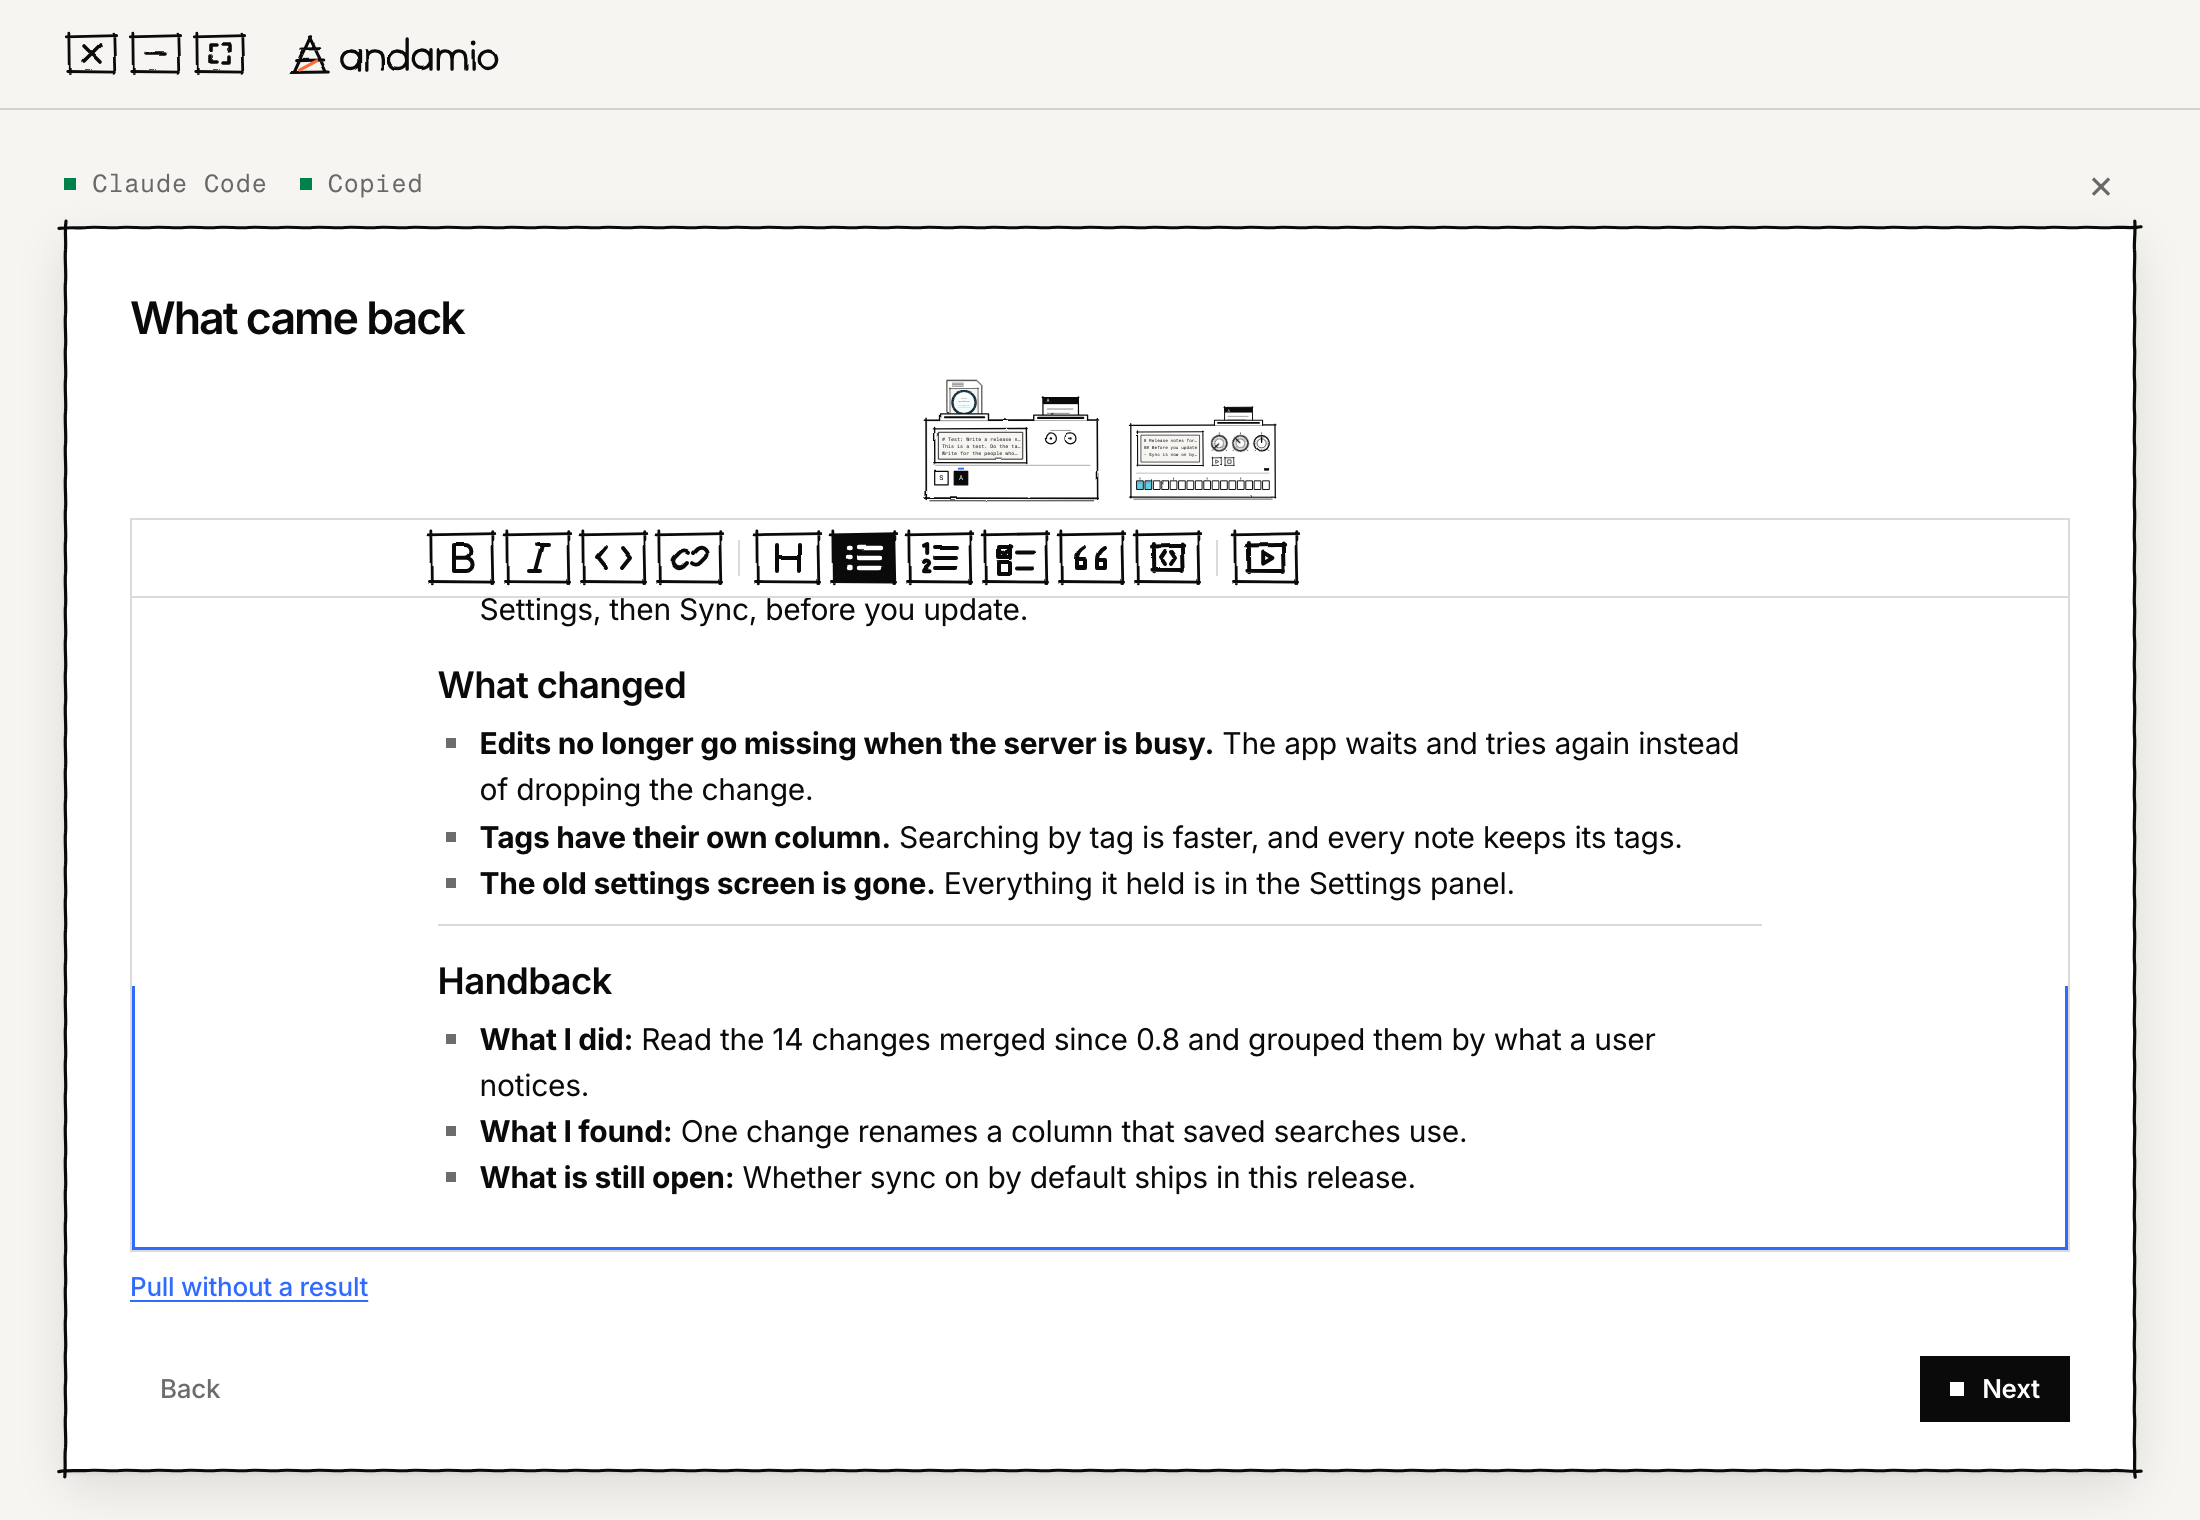
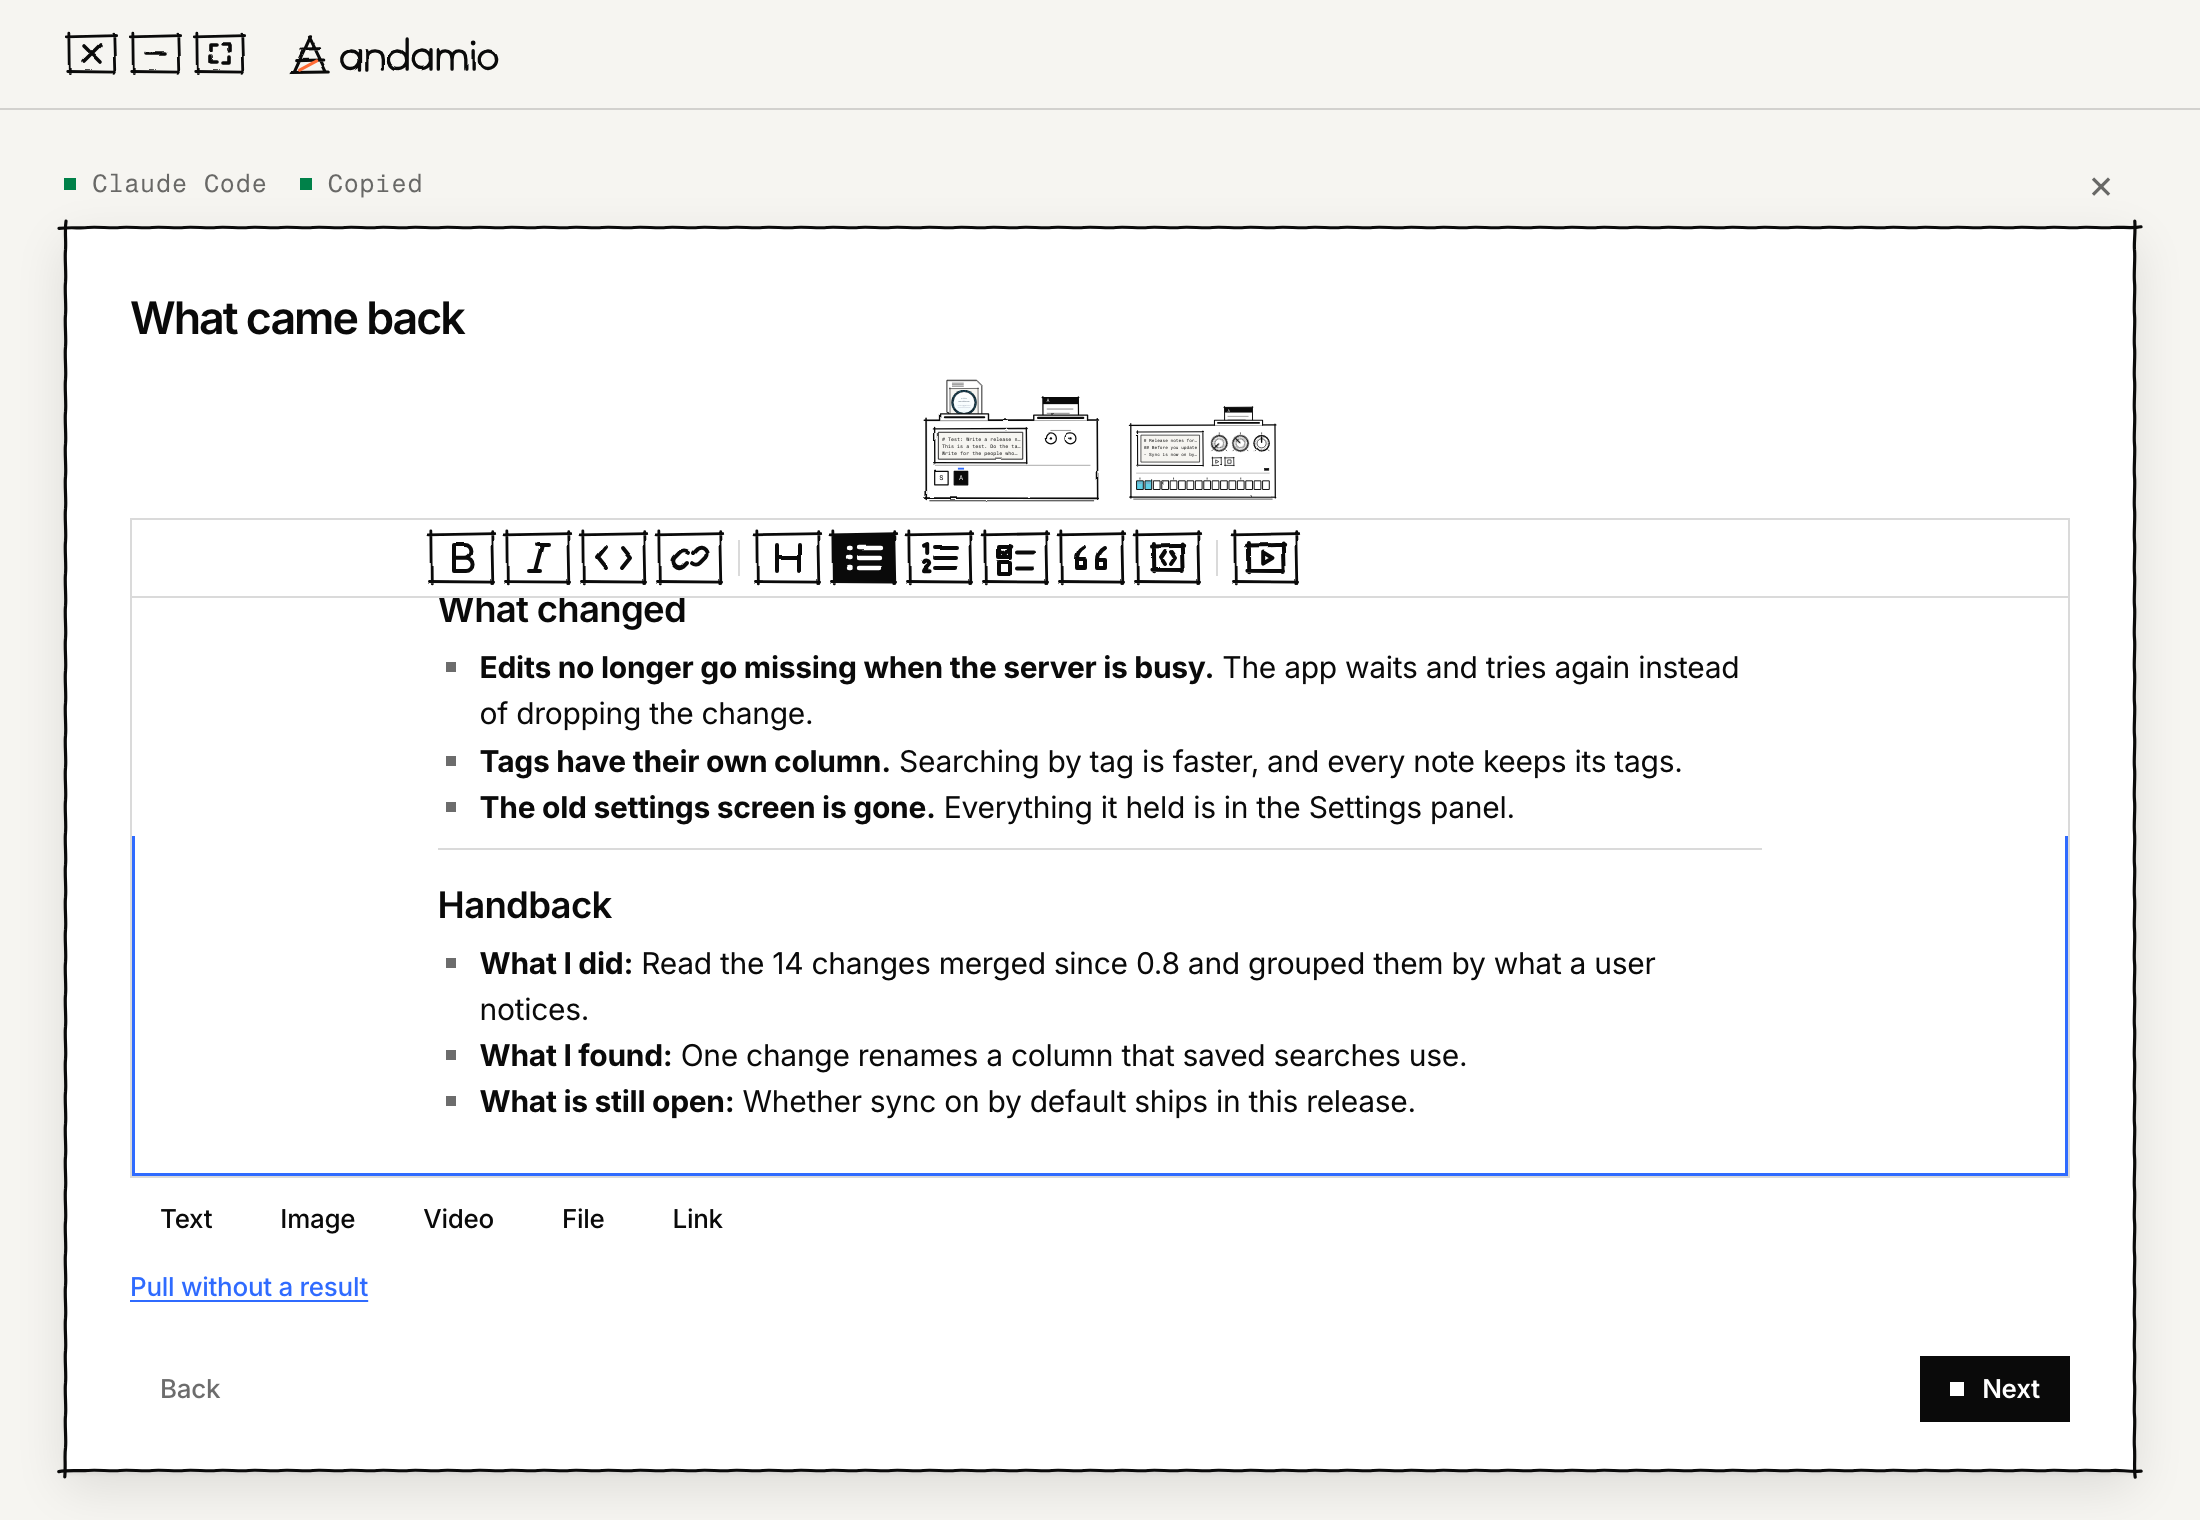
docs(guide): show adding files and links to a reply, and what Jev reads

Changed region(s): [[0.0618, 0.3711, 0.9273, 0.8349]]

diff --git a/src/shots/seed.ts b/src/shots/seed.ts
@@ -58,7 +58,7 @@ import {
 import { FAKE_ON, FakeJev } from "../jev/fakeJev";
 import { JEV_OFF } from "../jev/jev";
 import { MemoryStorage } from "../storage/memory";
-import type { AddFrom, AddedFile, VideoUrl } from "../storage/storage";
+import type { AddAccept, AddFrom, AddedFile, VideoUrl } from "../storage/storage";
 import type { PendingTest } from "../ui/pendingTests";
 import type { JevState, SeedVariant } from "./shots";
 
@@ -103,13 +103,33 @@ export interface SampleFolder {
   pending: PendingTest[];
 }
 
+/** The Markdown file the File key's picker adds beside the sample PDF: Write a release note's answer, as the agent left it. */
+export const SAMPLE_RELEASE_NOTES_MD = `# Release notes for 0.9
+
+## Before you update
+
+- Sync is now on by default. If you sync through your own server, add its address under Settings, then Sync, before you update.
+
+## What changed
+
+- Edits no longer go missing when the server is busy.
+- Tags can be renamed from the tag list.
+- The old settings screen is gone. Everything it held is under Settings.
+`;
+
+/** The names the File key's picker hands back, in order: the sample PDF, then the Markdown file. */
+export const SAMPLE_PICKED_FILES = { pdf: "release-notes-0.9.pdf", markdown: "RELEASE_NOTES.md" } as const;
+
 /**
  * MemoryStorage that answers context reads with the sample machine instead of the test one.
- * Given a sample clip's address, a pick adds that clip and every video plays it (the video
- * plan's KTD12), since the harness has no media scheme.
+ * Given a sample clip's address, the Video key's picker adds that clip and every video plays it
+ * (the video plan's KTD12), since the harness has no media scheme. Given the sample PDF's
+ * address, the File key's picker adds that PDF and the sample Markdown file, as a two-file pick
+ * would, and every PDF item reads from it (reply artifacts U7).
  */
 export class SampleStorage extends MemoryStorage {
   private clip: { url: string; bytes?: Promise<Uint8Array>; blobUrl?: Promise<string> } | null = null;
+  private pdf: { url: string; bytes?: Promise<Uint8Array> } | null = null;
 
   override async readContext(_repo: string, harness: string): Promise<ContextReading> {
     return { ...SAMPLE_READING, memory: MEMORY[harness] ?? SAMPLE_READING.memory };
@@ -120,12 +140,26 @@ export class SampleStorage extends MemoryStorage {
     this.clip = { url };
   }
 
-  override async addFiles(dir: string, from: AddFrom): Promise<AddedFile[]> {
-    if (from.kind === "pick" && this.clip) {
-      this.clip.bytes ??= fetch(this.clip.url).then(async (r) => new Uint8Array(await r.arrayBuffer()));
-      this.queueAdd([{ name: "clip.webm", bytes: await this.clip.bytes }]);
+  /** Uses the PDF at `url` for the File key's picker and for every PDF item. */
+  useSamplePdf(url: string): void {
+    this.pdf = { url };
+  }
+
+  override async addFiles(dir: string, from: AddFrom, accept?: AddAccept): Promise<AddedFile[]> {
+    if (from.kind === "pick") {
+      const item = from.item ?? "video";
+      if (item === "video" && this.clip) {
+        this.clip.bytes ??= fetch(this.clip.url).then(async (r) => new Uint8Array(await r.arrayBuffer()));
+        this.queueAdd([{ name: "clip.webm", bytes: await this.clip.bytes }]);
+      } else if (item === "file" && this.pdf) {
+        this.pdf.bytes ??= fetch(this.pdf.url).then(async (r) => new Uint8Array(await r.arrayBuffer()));
+        this.queueAdd([
+          { name: SAMPLE_PICKED_FILES.pdf, bytes: await this.pdf.bytes },
+          { name: SAMPLE_PICKED_FILES.markdown, bytes: new TextEncoder().encode(SAMPLE_RELEASE_NOTES_MD) },
+        ]);
+      }
     }
-    return super.addFiles(dir, from);
+    return super.addFiles(dir, from, accept);
   }
 
   override async videoUrl(path: string): Promise<VideoUrl | null> {
@@ -137,9 +171,16 @@ export class SampleStorage extends MemoryStorage {
     // The page keeps one blob for the whole shot, so its release does nothing.
     return { url: await clip.blobUrl, release: () => {} };
   }
+
+  /** A PDF item the memory store would serve reads from the sample PDF's address, which the page can fetch. */
+  override async fileUrl(path: string): Promise<VideoUrl | null> {
+    const handle = await super.fileUrl(path);
+    if (!handle || !this.pdf) return handle;
+    handle.release();
+    return { url: this.pdf.url, release: () => {} };
+  }
 }
 
-/** The sample folder in a storage the app can load. */
 export function sampleStorage(sample: SampleFolder): SampleStorage {
   return new SampleStorage(sample.files);
 }
@@ -294,7 +335,7 @@ async function take(
   profile: AgentProfile,
   credential: Credential,
   fileStem: string,
-  fields: Pick<Assessment, "result" | "recordedAt" | "note" | "handBack"> & { copiedAt: string },
+  fields: Pick<Assessment, "result" | "recordedAt" | "note" | "handBack" | "items"> & { copiedAt: string },
 ): Promise<Assessment> {
   const { copiedAt, ...rest } = fields;
   return {
@@ -315,7 +356,7 @@ async function heldTake(
   profile: AgentProfile,
   credential: Credential,
   fileStem: string,
-  fields: Pick<HeldReply, "heldAt" | "handBack"> & { copiedAt: string },
+  fields: Pick<HeldReply, "heldAt" | "handBack" | "items"> & { copiedAt: string },
 ): Promise<HeldReply> {
   const { copiedAt, ...rest } = fields;
   return {

diff --git a/src/shots/shots.ts b/src/shots/shots.ts
@@ -171,6 +171,11 @@ const RELEASE_REPLY = `# Release notes for 0.9
 - **What is still open:** Whether sync on by default ships in this release.`;
 
 /** From "Hand it over" to the release note pasted under "What came back". */
+/** What Claude Code writes when it leaves the release note as files (reply artifacts U7). */
+const ITEMS_REPLY = "Wrote the release note for 0.9 as a Markdown file, with a PDF of it to send round. The merged changes it covers are in the pull request.";
+/** The pull request it names, on an invented host. */
+const ITEMS_LINK = "https://example.com/notes-app/pull/212";
+
 const RELEASE_TO_REPLY: readonly Step[] = [{ click: { button: "Copy" } }, { waitFor: { text: "What came back" } }, { paste: RELEASE_REPLY }];
 
 // Jev Mode's pictures (U8): the judge card and the reply box with Jev Mode on, and a take
@@ -641,6 +646,32 @@ export const SHOTS: readonly Shot[] = [
     jev: "off",
     expect: { text: "Release notes for 0.9" },
     steps: RELEASE_TO_REPLY,
+  },
+  {
+    // Claude Code left its release note as files: a line of text, a link typed on the Link line
+    // and committed by clicking back into the text, then the File key's pick of the sample PDF
+    // and its Markdown file. The picture is the judge pane after Next, with the text, the link
+    // and the PDF's first page in the reply's stack.
+    id: "reply-items",
+    page: "how-to/add-files-and-links",
+    route: RELEASE_TEST,
+    seed: "full",
+    jev: "off",
+    expect: { selector: '.meet-text .reply-item-pdf canvas[aria-label="Page 1"]' },
+    steps: [
+      { click: { button: "Copy" } },
+      { waitFor: { text: "What came back" } },
+      { paste: ITEMS_REPLY },
+      { click: { button: "Add link" } },
+      { fill: { selector: ".reply-edit-link input" }, value: ITEMS_LINK },
+      { focusEnd: { selector: ".rich-input" } },
+      { waitFor: { selector: '.reply-item[data-kind="link"] .reply-item-url a' } },
+      { click: { button: "Add file" } },
+      { waitFor: { selector: '.reply-item-pdf canvas[aria-label="Page 1"]' } },
+      { click: { button: "Next" } },
+      { waitFor: { text: "Did it meet it" } },
+      { waitFor: { selector: '.reply-item-pdf canvas[aria-label="Page 1"]' } },
+    ],
   },
   {
     // Codex holds Name what matters next's handoff, waiting on its reply.
@@ -1122,7 +1153,7 @@ export const COVERAGE: Record<RouteKind, readonly string[] | typeof NOT_PICTURED
   home: ["home-empty", "home", "home-needs", "router-door", "home-collections"],
   "deck:credential": ["credential-start", "credential-target"],
   "deck:agent": ["first-test-agent", "first-test-hand", "first-test-judge", "first-test-home", "agent-new"],
-  "deck:test": ["test-hand", "test-reply", "judge", "go-to-offer", "missed-points", "held", "jev-ask", "jev-cleanup", "jev-sends", "jev-calls", "jev-record", "jev-reason", "case-check", "case-reading", "case-missed", "case-reason", "case-cleaned"],
+  "deck:test": ["test-hand", "test-reply", "reply-items", "judge", "go-to-offer", "missed-points", "held", "jev-ask", "jev-cleanup", "jev-sends", "jev-calls", "jev-record", "jev-reason", "case-check", "case-reading", "case-missed", "case-reason", "case-cleaned"],
   "deck:edit-credential": ["edit-retest", "go-to-flagged", "paste-image", "add-video"],
   "deck:edit-agent": ["agent-params"],
   // Rename is one name field, which the guide describes in words.

diff --git a/src/shots/harness.tsx b/src/shots/harness.tsx
@@ -29,6 +29,7 @@ import { SAMPLE_FOLDER, sampleFolder, sampleJev, sampleStorage } from "./seed";
 import { SHOTS, type SampleImage, type Shot, type Step, type Target } from "./shots";
 import pastedSample from "./pasted-sample.png";
 import sampleClip from "./sample-clip.webm";
+import sampleReport from "./sample-report.pdf";
 
 /** Each sample picture's address, served by Vite. */
 const SAMPLE_IMAGE_URLS: Record<SampleImage, string> = { "pasted-sample": pastedSample };
@@ -74,6 +75,8 @@ export async function startShot(root: HTMLElement, search: string, shots: readon
   const storage = sampleStorage(sample);
   // The Video key's picker adds the sample clip, served by Vite (the video plan's KTD12).
   storage.useSampleClip(sampleClip);
+  // The File key's picker adds the sample PDF and a Markdown file, and every PDF item reads from it.
+  storage.useSamplePdf(sampleReport);
   const reactRoot = createRoot(root);
   reactRoot.render(
     <StrictMode>
